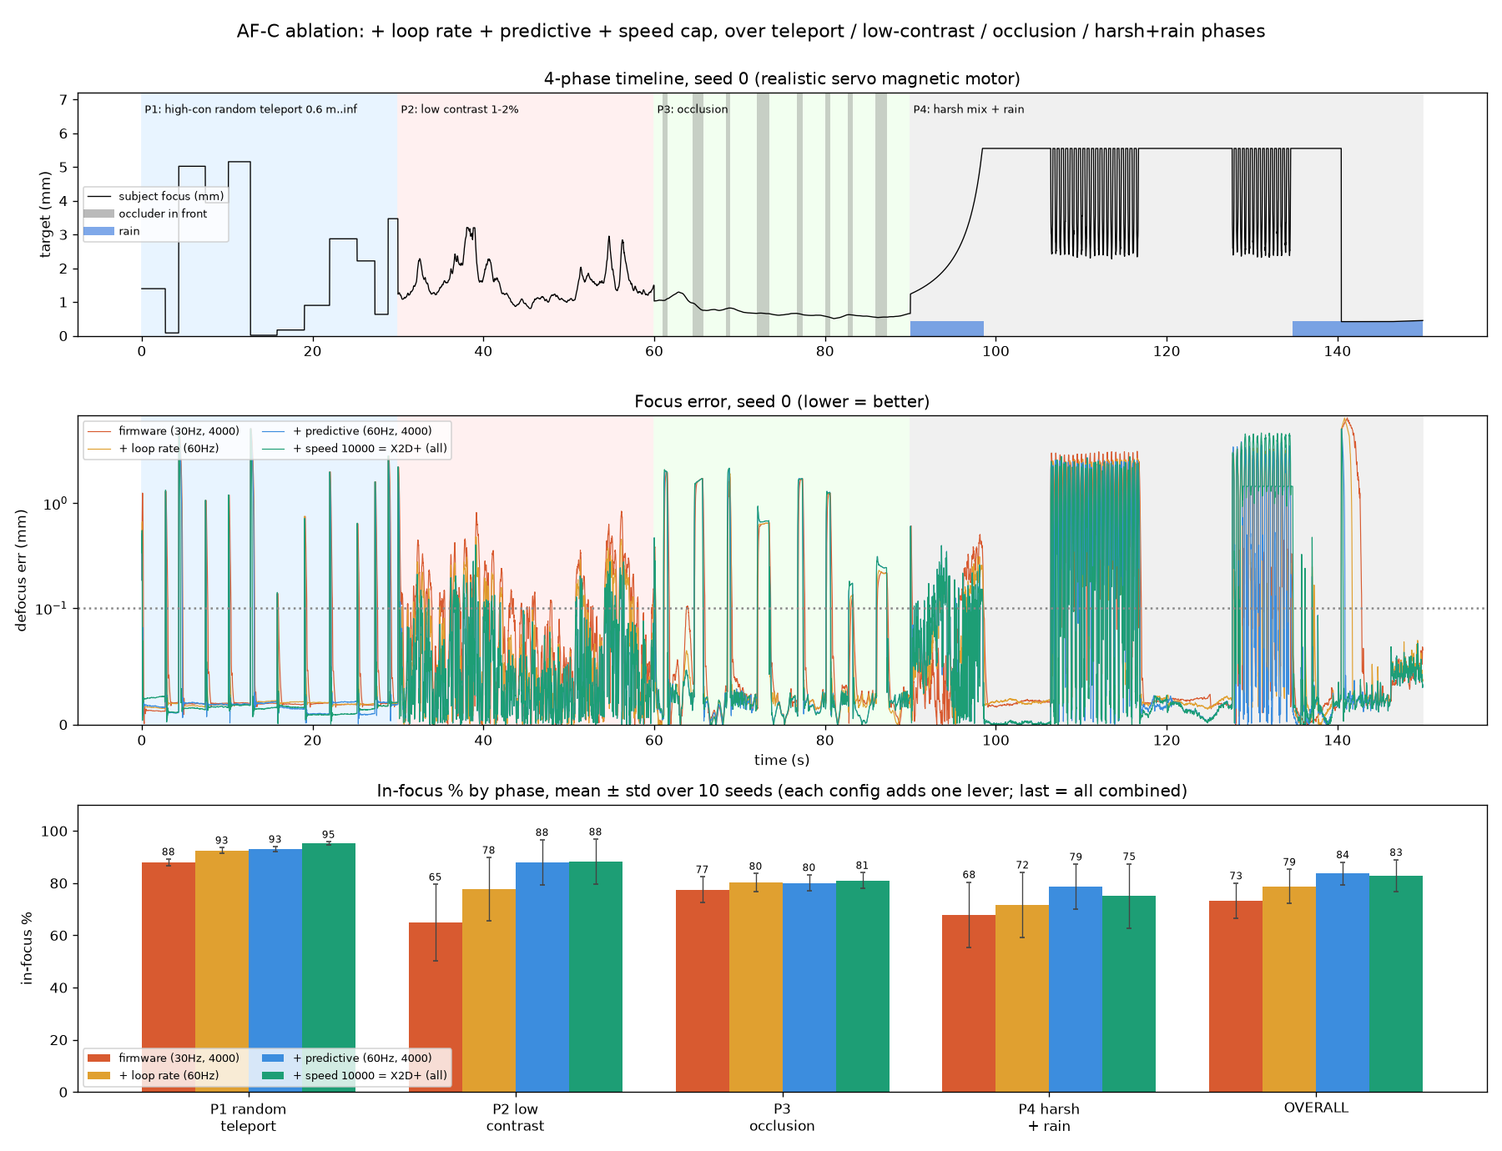
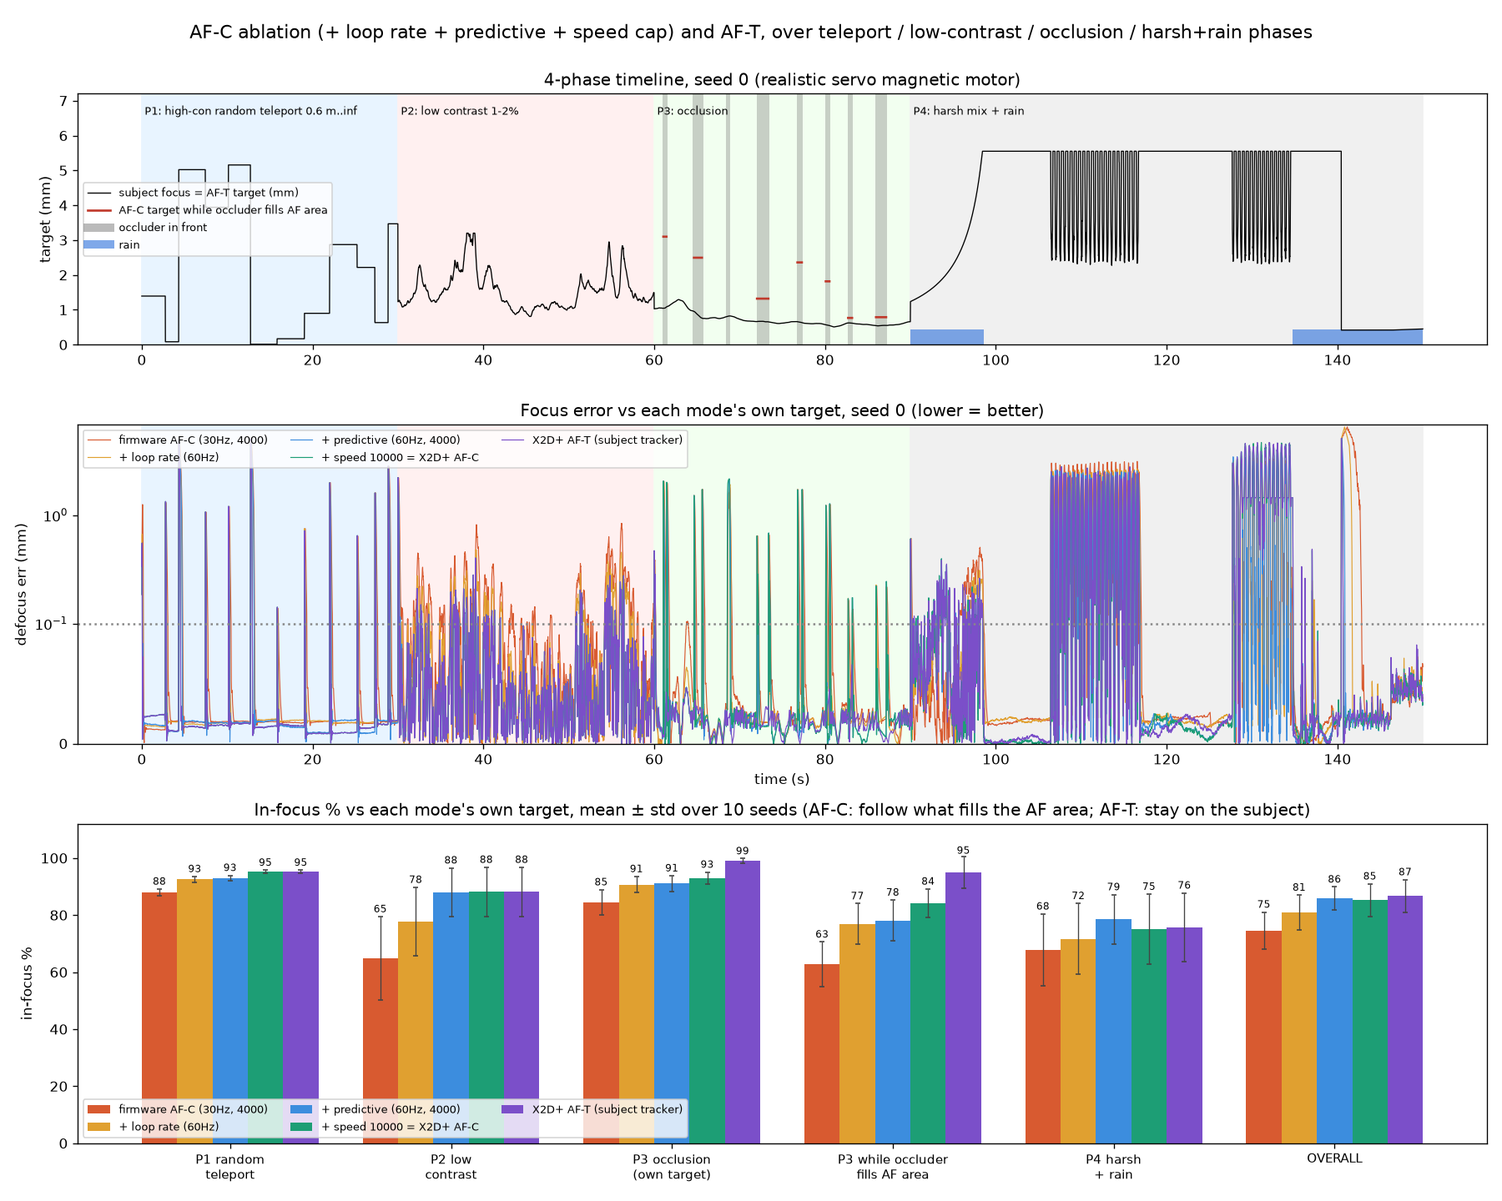
Score occlusion per mode: AF-C follows the AF area, AF-T stays on subject
AF-C focuses on whatever fills the AF area, so switching to an occluder
that covers most of it is correct, not a failure. Score AF-C against the
occluder once it covers more than half the zones (where the multi-zone
median flips), and add an AF-T config (X2D+ plus an ideal subject tracker
that drops occluded zones and coasts through full occlusion) scored
against the subject.

While the occluder fills the AF area, AF-C goes 63% (firmware) -> 84% (X2D+)
and AF-T holds the subject 95%. AF-T matches X2D+ AF-C in every other
phase. This replaces the earlier "occlusion is a gap no lever closes"
reading, which came from scoring AF-C against the wrong target.

Claude-Session: https://claude.ai/code/session_01L8CqeknP2VpyW2e7CZ124F

diff --git a/scripts/run_ablation_4phase.py b/scripts/run_ablation_4phase.py
@@ -15,6 +15,19 @@ marginal contribution; the 4th is everything combined:
   2. + loop rate     -- 60 Hz loop                         (4000, time-filter)
   3. + predictive    -- Kalman predict + step-clamp + coast (60 Hz, 4000)
   4. + speed cap     -- 10000 steps/s  == full X2D+        (60 Hz, 10000, predictive)
+  5. AF-T            -- X2D+ plus a subject tracker (tracking AF, not AF-C)
+
+AF-C and AF-T have DIFFERENT correct answers under occlusion, and each is
+scored against its own:
+
+  * AF-C focuses on whatever is in the AF area. When an occluder covers most of
+    it (> half the zones -- where the multi-zone median flips), the correct
+    target IS the occluder.
+  * AF-T knows which object is the subject. It must ignore the occluder and
+    stay on the subject. Modelled as an ideal subject tracker: AF zones covered
+    by the occluder are excluded from the PDAF measurement; when every zone is
+    covered there is no subject measurement and the policy coasts on velocity.
+    (Ideal identity = an upper bound on what a real tracker achieves.)
 
 Timeline (2.5 min):
   * P1  0-30 s    HIGH contrast, RANDOM teleports anywhere in 0.6 m .. infinity
@@ -37,7 +50,7 @@ Rain model: a semi-transparent streak layer at 0.4-1.5 m that randomly hits
 AF zones each frame (more zones in heavier rain), plus a haze veil (contrast
 loss) and extra noise.
 
-Metric = in-focus % (|lens - subject| < deadband), per phase, as mean +/- std
+Metric = in-focus % (|lens - target| < deadband, target per mode as above), per phase, as mean +/- std
 over N_SEEDS independent timelines (default 10; override with argv[1]).
 Reuses policies / optics / motor from run_x2d_plus and the repo PDAF stack.
 
@@ -70,11 +83,13 @@ PHASES = [(0, B1, "P1: high-con random teleport 0.6 m..inf", "#e8f4ff"),
           (B2, B3, "P3: occlusion", "#f2fff0"),
           (B3, N, "P4: harsh mix + rain", "#f0f0f0")]
 
-# config: (label, policy class in run_x2d_plus, speed cap, update_every, colour)
-CFGS = [("firmware (30Hz, 4000)",      "Firmware", X.SPEED_X2D,    2, "#D85A30"),
-        ("+ loop rate (60Hz)",         "Firmware", X.SPEED_X2D,    1, "#E0A030"),
-        ("+ predictive (60Hz, 4000)",  "X2DPlus",  X.SPEED_X2D,    1, "#3C8DDE"),
-        ("+ speed 10000 = X2D+ (all)", "X2DPlus",  X.SPEED_TARGET, 1, "#1D9E75")]
+# config: (label, policy class in run_x2d_plus, speed cap, update_every, mode, colour)
+#   mode "afc": correct target = what is in the AF area;  "aft": correct target = the subject
+CFGS = [("firmware AF-C (30Hz, 4000)",  "Firmware", X.SPEED_X2D,    2, "afc", "#D85A30"),
+        ("+ loop rate (60Hz)",          "Firmware", X.SPEED_X2D,    1, "afc", "#E0A030"),
+        ("+ predictive (60Hz, 4000)",   "X2DPlus",  X.SPEED_X2D,    1, "afc", "#3C8DDE"),
+        ("+ speed 10000 = X2D+ AF-C",   "X2DPlus",  X.SPEED_TARGET, 1, "afc", "#1D9E75"),
+        ("X2D+ AF-T (subject tracker)", "X2DPlus",  X.SPEED_TARGET, 1, "aft", "#7B4FC9")]
 
 
 def _zone_rows(z):
@@ -141,15 +156,25 @@ def build_timeline(seed=0):
     return subj, con, bright, fog, dist, occ, occ_d, rain
 
 
-def measure(tex, lens, tgt_mm, con, bright, fog, dist, occ, occ_d, rain, accum, nrng, rng):
+def afc_target_mm(subj, occ, occ_d):
+    """AF-C truth: the occluder once it covers more than half the AF zones, else the subject."""
+    t = np.array([X.focus_mm(d) for d in subj])
+    m = occ > 0.5
+    t[m] = [X.focus_mm(d) for d in occ_d[m]]
+    return t
+
+
+def measure(tex, lens, tgt_mm, con, bright, fog, dist, occ, occ_d, rain, accum, nrng, rng, aft=False):
     if dist == "dropout" and rng.random() < 0.35:
+        return None, None, None
+    n_occ = int(np.ceil(occ * NZ - 1e-9))                     # zones covered by the occluder
+    if aft and n_occ >= NZ:                                   # tracker: subject fully hidden
         return None, None, None
     sharp, occ_tex, rain_tex = tex
     veil = (1.0 - fog) * (1.0 - 0.3 * rain)                   # fog / rain haze lowers contrast
     def flatten(img, c): return img.mean() + c * (img - img.mean())
     s = flatten(sharp, con * veil)
     noise = 0.006 + 0.030 * (1.0 - bright) + 0.030 * fog + 0.020 * rain
-    n_occ = int(np.ceil(occ * NZ - 1e-9))                     # zones covered by the occluder
     occ_mm = X.focus_mm(occ_d) if n_occ else 0.0
     Ls = []; Rs = []
     for _ in range(accum):
@@ -167,36 +192,40 @@ def measure(tex, lens, tgt_mm, con, bright, fog, dist, occ, occ_d, rain, accum, 
                     rs = _zone_rows(z); L[rs] = 0.4 * L[rs] + 0.6 * Lr[rs]; R[rs] = 0.4 * R[rs] + 0.6 * Rr[rs]
         Ls.append(L + nrng.normal(0, noise, L.shape)); Rs.append(R + nrng.normal(0, noise, R.shape))
     L = np.mean(Ls, 0).astype(np.float32); R = np.mean(Rs, 0).astype(np.float32)
-    disp, c = estimate_disparity_multi_zone(L, R, max_disp_px=X.MAX_DISP_PX, n_zones=NZ)
+    nz = NZ
+    if aft and n_occ:                                         # tracker drops the occluded zones
+        r0 = _zone_rows(n_occ).start; L = L[r0:]; R = R[r0:]; nz = NZ - n_occ
+    disp, c = estimate_disparity_multi_zone(L, R, max_disp_px=X.MAX_DISP_PX, n_zones=nz)
     disp_mm = disp / PPM; cs = cdaf_score((L + R) * 0.5)
     if dist == "periodic":
         disp_mm = ((disp_mm + ALIAS / 2) % ALIAS) - ALIAS / 2; c = max(c, 0.8)
     return disp_mm, float(c), float(cs)
 
 
-def run(policy_cls, speed, update_every, tl, seed=1):
+def run(policy_cls, speed, update_every, mode, tl, seed=1):
+    """Returns the lens trajectory (mm); scoring against a target happens outside."""
     subj, con, bright, fog, dist, occ, occ_d, rain = tl
     rng = np.random.default_rng(seed); nrng = np.random.default_rng(seed + 7)
     tex = (high_contrast(rng), high_contrast(rng), rain_texture(rng))
     pol = getattr(X, policy_cls)(); lb = X.LatencyBuffer(LAT)
-    lens = X.focus_mm(subj[0]); last = lens; err = np.zeros(N)
+    lens = X.focus_mm(subj[0]); last = lens; track = np.zeros(N)
     motor = X.make_motor(lens, speed)
     for k in range(N):
         tgt = X.focus_mm(subj[k])
         if k % update_every == 0:
             accum = 4 if (con[k] < 0.1 or fog[k] > 0.3 or bright[k] < 0.5) else 1
             m = measure(tex, lens, tgt, con[k], bright[k], fog[k], dist[k],
-                        occ[k], occ_d[k], rain[k], accum, nrng, rng)
+                        occ[k], occ_d[k], rain[k], accum, nrng, rng, aft=(mode == "aft"))
             arr = lb.push_pop((m[0], m[1], m[2], lens))
             last = pol.coast() if (arr is None or arr[0] is None) else pol.step(arr[0], arr[1], arr[2], arr[3])
-        lens = motor.command(last); err[k] = abs(lens - tgt)
-    return err
+        lens = motor.command(last); track[k] = lens
+    return track
 
 
 def _job(args):
     seed, ci = args
-    _, cls, spd, ue, _ = CFGS[ci]
-    return seed, ci, run(cls, spd, ue, build_timeline(seed=seed), seed=seed + 1)
+    _, cls, spd, ue, mode, _ = CFGS[ci]
+    return seed, ci, run(cls, spd, ue, mode, build_timeline(seed=seed), seed=seed + 1)
 
 
 def pct(e, msk=None):
@@ -210,31 +239,42 @@ def main():
     t0 = time.time()
     with Pool(os.cpu_count()) as pool:
         out = pool.map(_job, [(s, ci) for s in range(n_seeds) for ci in range(len(CFGS))])
-    errs = {(s, ci): e for s, ci, e in out}
+    tracks = {(s, ci): tr for s, ci, tr in out}
     print(f"sim compute: {time.time()-t0:.0f}s ({N/FPS:.0f}s footage x {len(CFGS)} configs x {n_seeds} seeds)\n")
 
-    # per-seed masks for the occlusion / rain sub-breakdown
     tls = [build_timeline(seed=s) for s in range(n_seeds)]
+    tgt_subj = [np.array([X.focus_mm(d) for d in tl[0]]) for tl in tls]   # AF-T truth
+    tgt_afc = [afc_target_mm(tl[0], tl[5], tl[6]) for tl in tls]          # AF-C truth
+
+    def err(s, ci, truth=None):
+        truth = truth or CFGS[ci][4]
+        return np.abs(tracks[(s, ci)] - (tgt_afc[s] if truth == "afc" else tgt_subj[s]))
+
     phase = np.zeros(N, dtype=int); phase[B1:B2] = 1; phase[B2:B3] = 2; phase[B3:] = 3
-    cols = ["P1 fast", "P2 lowcon", "P3 occl", "P4 harsh", "overall", "P3 occluded", "P4 rain"]
+    cols = ["P1 fast", "P2 lowcon", "P3 occl", "P4 harsh", "overall",
+            "P3 occ>half", "  vs subject", "  vs AF area", "P4 rain"]
     stats = {}                                                 # ci -> (n_seeds, len(cols))
     for ci in range(len(CFGS)):
         rows = []
         for s in range(n_seeds):
-            e = errs[(s, ci)]; occ, rain = tls[s][5], tls[s][7]
-            rows.append([pct(e, phase == p) for p in range(4)] + [pct(e),
-                         pct(e, (phase == 2) & (occ > 0)), pct(e, (phase == 3) & (rain > 0))])
+            e = err(s, ci); occ, rain = tls[s][5], tls[s][7]
+            big = (phase == 2) & (occ > 0.5)                   # where AF-C and AF-T disagree
+            rows.append([pct(e, phase == p) for p in range(4)] + [pct(e), pct(e, big),
+                         pct(err(s, ci, "aft"), big), pct(err(s, ci, "afc"), big),
+                         pct(e, (phase == 3) & (rain > 0))])
         stats[ci] = np.array(rows)
-    hdr = f"{'config (mean ± std over seeds)':<30}" + "".join(f"{c:>15}" for c in cols)
+    print("Each config is scored against its OWN mode's truth (AF-C: what is in the AF area;"
+          " AF-T: the subject).\n'vs subject' / 'vs AF area' re-score the same frames against each truth.\n")
+    hdr = f"{'config (mean ± std over seeds)':<30}" + "".join(f"{c:>14}" for c in cols)
     print(hdr); print("-" * len(hdr))
     for ci, (name, *_) in enumerate(CFGS):
         m = np.nanmean(stats[ci], 0); sd = np.nanstd(stats[ci], 0)
-        print(f"{name:<30}" + "".join(f"{a:>9.1f}±{b:<5.1f}" for a, b in zip(m, sd)))
+        print(f"{name:<30}" + "".join(f"{a:>8.1f}±{b:<5.1f}" for a, b in zip(m, sd)))
 
     # ---- figure: seed-0 timeline + error traces, then mean ± std bars ----
     subj, con, bright, fog, dist, occ, occ_d, rain = tls[0]
     t = np.arange(N) / FPS
-    fig, ax = plt.subplots(3, 1, figsize=(15, 11.5), gridspec_kw={"height_ratios": [1.1, 1.4, 1.3]})
+    fig, ax = plt.subplots(3, 1, figsize=(15, 12), gridspec_kw={"height_ratios": [1.1, 1.4, 1.4]})
     for a, b, lab, col in PHASES:
         ax[0].axvspan(a / FPS, b / FPS, color=col); ax[1].axvspan(a / FPS, b / FPS, color=col)
         ax[0].text((a + 20) / FPS, 6.6, lab, fontsize=8)
@@ -245,29 +285,36 @@ def main():
         ax[0].axvspan(a / FPS, b / FPS, color="#777", alpha=0.35, lw=0)
     for a, b in spans(rain > 0):
         ax[0].axvspan(a / FPS, b / FPS, ymin=0, ymax=0.06, color="#2a6fdb", alpha=0.6, lw=0)
-    ax[0].plot(t, [X.focus_mm(d) for d in subj], "k-", lw=0.8, label="subject focus (mm)")
+    afc0 = np.where(occ > 0.5, tgt_afc[0], np.nan)
+    ax[0].plot(t, tgt_subj[0], "k-", lw=0.8, label="subject focus = AF-T target (mm)")
+    ax[0].plot(t, afc0, color="#c0392b", lw=1.6, label="AF-C target while occluder fills AF area")
     ax[0].plot([], [], color="#777", alpha=0.5, lw=6, label="occluder in front")
     ax[0].plot([], [], color="#2a6fdb", alpha=0.6, lw=6, label="rain")
     ax[0].set_ylabel("target (mm)"); ax[0].set_ylim(0, 7.2); ax[0].legend(fontsize=8, loc="center left")
     ax[0].set_title("4-phase timeline, seed 0 (realistic servo magnetic motor)")
-    for ci, (name, *_, col) in enumerate(CFGS): ax[1].plot(t, errs[(0, ci)], color=col, lw=0.7, label=name)
+    for ci, (name, *_, col) in enumerate(CFGS):
+        ax[1].plot(t, err(0, ci), color=col, lw=0.7, label=name)
     ax[1].axhline(DB, color="#888", ls=":"); ax[1].set_yscale("symlog", linthresh=0.1)
     ax[1].set_ylim(bottom=0)
     ax[1].set_ylabel("defocus err (mm)"); ax[1].set_xlabel("time (s)")
-    ax[1].legend(fontsize=8, ncol=2, loc="upper left"); ax[1].set_title("Focus error, seed 0 (lower = better)")
-    groups = ["P1 random\nteleport", "P2 low\ncontrast", "P3\nocclusion", "P4 harsh\n+ rain", "OVERALL"]
-    xg = np.arange(len(groups)); w = 0.2
+    ax[1].legend(fontsize=8, ncol=3, loc="upper left")
+    ax[1].set_title("Focus error vs each mode's own target, seed 0 (lower = better)")
+    groups = ["P1 random\nteleport", "P2 low\ncontrast", "P3 occlusion\n(own target)",
+              "P3 while occluder\nfills AF area", "P4 harsh\n+ rain", "OVERALL"]
+    sel = [0, 1, 2, 5, 3, 4]                                   # columns of stats, in group order
+    xg = np.arange(len(groups)); w = 0.16
     for ci, (name, *_, col) in enumerate(CFGS):
-        m = np.nanmean(stats[ci][:, :5], 0); sd = np.nanstd(stats[ci][:, :5], 0)
-        b = ax[2].bar(xg + (ci - 1.5) * w, m, w, yerr=sd, capsize=2, color=col, label=name,
+        m = np.nanmean(stats[ci][:, sel], 0); sd = np.nanstd(stats[ci][:, sel], 0)
+        b = ax[2].bar(xg + (ci - 2) * w, m, w, yerr=sd, capsize=2, color=col, label=name,
                       error_kw={"lw": 0.8, "ecolor": "#444"})
-        for bar, v, s in zip(b, m, sd):
-            ax[2].text(bar.get_x() + bar.get_width() / 2, v + s + 1.5, f"{v:.0f}", ha="center", fontsize=7)
-    ax[2].set_xticks(xg); ax[2].set_xticklabels(groups); ax[2].set_ylim(0, 110)
-    ax[2].set_ylabel("in-focus %"); ax[2].legend(fontsize=8, ncol=2, loc="lower left")
-    ax[2].set_title(f"In-focus % by phase, mean ± std over {n_seeds} seeds "
-                    "(each config adds one lever; last = all combined)")
-    fig.suptitle("AF-C ablation: + loop rate + predictive + speed cap, over "
+        for bar, v, e in zip(b, m, sd):
+            ax[2].text(bar.get_x() + bar.get_width() / 2, min(v + e, 100) + 1.5, f"{v:.0f}",
+                       ha="center", fontsize=7)
+    ax[2].set_xticks(xg); ax[2].set_xticklabels(groups, fontsize=9); ax[2].set_ylim(0, 112)
+    ax[2].set_ylabel("in-focus %"); ax[2].legend(fontsize=8, ncol=3, loc="lower left")
+    ax[2].set_title(f"In-focus % vs each mode's own target, mean ± std over {n_seeds} seeds "
+                    "(AF-C: follow what fills the AF area; AF-T: stay on the subject)")
+    fig.suptitle("AF-C ablation (+ loop rate + predictive + speed cap) and AF-T, over "
                  "teleport / low-contrast / occlusion / harsh+rain phases", fontsize=13)
     fig.tight_layout(rect=[0, 0, 1, 0.98]); fig.savefig("out/ablation_4phase.png", dpi=120)
     print("\nsaved out/ablation_4phase.png")

diff --git a/README.md b/README.md
@@ -197,28 +197,46 @@ servo magnetic motor:
 Occluders and rain are rendered as their own textured layers at their own
 depth and composited into the AF zones they cover. Their PDAF confidence
 comes out of the same optics + phase-correlation stack; nothing is
-hand-coded as "no measurement". Mean ± std over 10 independent timelines:
+hand-coded as "no measurement".
 
-| config (cumulative) | P1 teleport | P2 low-con | P3 occlusion | P4 harsh+rain | overall |
-|---|---|---|---|---|---|
-| firmware (30 Hz, 4000) | 88 ± 1% | 65 ± 15% | 77 ± 5% | 68 ± 13% | 73 ± 7% |
-| + loop rate (60 Hz) | 93 ± 1% | 78 ± 12% | 80 ± 4% | 72 ± 12% | 79 ± 7% |
-| + predictive (60 Hz, 4000) | 93 ± 1% | 88 ± 9% | 80 ± 3% | 79 ± 9% | 84 ± 4% |
-| + speed 10000 (= X2D+) | 95 ± 1% | 88 ± 9% | 81 ± 3% | 75 ± 12% | 83 ± 6% |
+**AF-C and AF-T have different correct answers under occlusion**, so each mode
+is scored against its own:
 
-Loop rate is the broadest lever: it lifts every phase. The predictive policy
-carries low contrast (+10) and the harsh mix (+7). The speed cap helps only
-the big random teleports (+2 on P1) and is within noise everywhere else.
+- **AF-C** focuses on whatever is in the AF area. When an occluder fills most
+  of it (more than half the zones, which is where the multi-zone median flips),
+  focusing on the occluder *is* the right answer.
+- **AF-T** knows which object is the subject. It should ignore the occluder
+  and stay on the subject. It is modelled as X2D+ plus an ideal subject
+  tracker: occluded AF zones are dropped from the PDAF measurement, and when
+  every zone is covered the policy coasts on its velocity estimate. Ideal
+  identity makes this an upper bound on what a real tracker achieves.
 
-**Occlusion is the honest gap.** Counting only the frames where an occluder is
-actually in front, every config holds the subject just 27–34% of the time.
-The faster, more responsive configs do slightly *worse* (34% → 27%), because
-they believe the occluder sooner. A confident, textured occluder is a correct
-measurement of the wrong object, and no depth-only policy can tell the two
-apart. Partial occluders are mostly harmless, since the multi-zone median
-ignores a minority of zones. Fixing full occlusion needs subject identity: a
-lock-on hold / tracking-sensitivity delay, or the subject-detection model
-that is out of scope here. Rain frames alone: 73% → 78% (firmware → X2D+).
+Mean ± std over 10 independent timelines, each config scored against its
+own mode's target:
+
+| config | P1 teleport | P2 low-con | P3 occlusion | P3 while occluder fills AF area | P4 harsh+rain | overall |
+|---|---|---|---|---|---|---|
+| firmware AF-C (30 Hz, 4000) | 88 ± 1% | 65 ± 15% | 85 ± 4% | 63 ± 8% | 68 ± 13% | 75 ± 7% |
+| + loop rate (60 Hz) | 93 ± 1% | 78 ± 12% | 91 ± 3% | 77 ± 7% | 72 ± 12% | 81 ± 6% |
+| + predictive (60 Hz, 4000) | 93 ± 1% | 88 ± 9% | 91 ± 3% | 78 ± 7% | 79 ± 9% | 86 ± 4% |
+| + speed 10000 (= X2D+ AF-C) | 95 ± 1% | 88 ± 9% | 93 ± 2% | 84 ± 5% | 75 ± 12% | 85 ± 6% |
+| **X2D+ AF-T** (subject tracker) | 95 ± 1% | 88 ± 9% | **99 ± 1%** | **95 ± 6%** | 76 ± 12% | **87 ± 6%** |
+
+What each lever does:
+
+- **Loop rate** is the broadest lever. It lifts every phase, and it is the
+  biggest single gain for AF-C switching onto an occluder (63 → 77%).
+- **Predictive** carries low contrast (+10) and the harsh mix (+7).
+- **Speed cap** pays off wherever focus has to travel far and fast: the big
+  random teleports (+2) and AF-C snapping onto a near occluder (78 → 84%).
+  Everywhere else it is within noise.
+
+AF-C and AF-T behave as each should. While an occluder fills the AF area, the
+AF-C configs sit on the subject only 9–19% of the time, because they correctly
+move to the occluder. AF-T sits on the occluder only 3% of the time and
+holds the subject 95% of the time. Outside occlusion AF-T matches X2D+ AF-C,
+so subject tracking costs nothing elsewhere. Rain frames alone: 73% → 78%
+(firmware → X2D+).
 
 ![4-phase ablation](out/ablation_4phase.png)
 
@@ -279,9 +297,10 @@ Extended AF-C algorithm studies (simulation-only — see `DISCLAIMER.md`):
 - `scripts/run_stress_fps.py` — re-runs the harsh 2-min timeline at 30 Hz vs
   60 Hz: the loop rate lifts the harsh mix, and the predictive policy needs it.
 - `scripts/run_ablation_4phase.py` — **incremental ablation** (+ loop rate +
-  predictive + speed cap) over a 4-phase timeline (random 0.6 m–∞ teleports /
-  1-2% contrast / occlusion / harsh mix + rain), realistic servo magnetic motor,
-  10 seeds; isolates each lever's marginal contribution per phase.
+  predictive + speed cap) plus an **AF-T** config, over a 4-phase timeline
+  (random 0.6 m–∞ teleports / 1-2% contrast / occlusion / harsh mix + rain),
+  realistic servo magnetic motor, 10 seeds. AF-C is scored on following what
+  fills the AF area, AF-T on staying on the subject.
 - `FINDINGS.md` — direct behavioural observations of the X2D 100C,
   organized by causal layer, cross-referenced with reviews and patents
 - `DEV_LOG.md` — development log capturing intermediate hypotheses,

diff --git a/DEV_LOG.md b/DEV_LOG.md
@@ -540,16 +540,45 @@ mean ± std over 10 timelines.
   streaks pull disparity toward the camera (probe: 47% of frames off by more
   than 0.1 mm at intensity 1.0).
 
-Results (10 seeds) are in the README table. The new finding: **occlusion is a
-gap that no lever closes.** On frames with an occluder in front, in-focus is
-34% (firmware) → 28% → 27% → 27% (X2D+). The faster, more responsive configs
-believe the occluder sooner. The step-clamp in X2DPlus, built so the policy
-does not overshoot a rack focus, also snaps straight to a confident occluder.
-A confident textured occluder is a correct measurement of the wrong object, so
-depth alone cannot separate it from a real subject change. The candidates are
-a lock-on hold (hold depth for N ms after a large confident jump unless it
-persists), which is the "AF tracking sensitivity" knob other bodies expose,
-or subject identity. Recorded as open work.
+### Correction: AF-C and AF-T need different scoring under occlusion
+
+The first version scored every config against the subject in P3. It
+reported "occlusion is a gap no lever closes": 27–34% in-focus while an
+occluder is in front, and worse for the faster configs. That was the wrong
+yardstick for AF-C. AF-C focuses on whatever is in the AF area, so moving to
+an occluder that fills the AF area is correct AF-C behaviour. The faster
+configs "lost" because they switched to the occluder sooner, which is exactly
+what AF-C should do. Staying on the subject behind an occluder is the job of
+tracking AF (AF-T), which knows the subject's identity.
+
+The ablation now scores each mode against its own target:
+
+- **AF-C target**: the occluder whenever it covers more than half the AF
+  zones. That is where the multi-zone median flips, so it is what the AF
+  area "sees". Otherwise the target is the subject.
+- **AF-T target**: always the subject. AF-T is X2D+ plus an ideal subject
+  tracker. Occluded zones are excluded from the PDAF measurement, and full
+  occlusion means no subject measurement, so the policy coasts on velocity.
+  Ideal identity makes it an upper bound.
+
+Results (10 seeds), on frames where the occluder fills the AF area:
+
+| config | vs own target | vs subject | vs AF area |
+|---|---|---|---|
+| firmware AF-C (30 Hz, 4000) | 63 ± 8% | 19% | 63% |
+| + loop rate (60 Hz) | 77 ± 7% | 11% | 77% |
+| + predictive (60 Hz, 4000) | 78 ± 7% | 9% | 78% |
+| + speed 10000 (X2D+ AF-C) | 84 ± 5% | 9% | 84% |
+| X2D+ AF-T | 95 ± 6% | 95% | 3% |
+
+For AF-C, every lever helps it switch onto the occluder quickly. Loop rate
+helps most (+14), and the speed cap gives a real +6 here because snapping to
+a near occluder is a long, fast throw. AF-T holds the subject through 95% of
+those frames and matches X2D+ AF-C everywhere else (P1/P2 identical; P4
+differs by < 1 point, only because the noise RNG advances differently after
+P3). The earlier "occlusion gap" was the scoring, not the AF. The step-clamp
+note still stands for a *depth-only* tracking mode: without subject identity,
+a lock-on hold is the only defence against a confident occluder.
 
 Also noted, not changed: the `erratic` motion in the harsh generator is a
 0.7 m sine with a 0.4–0.8 s period, which peaks at 5–11 m/s. That is fast
